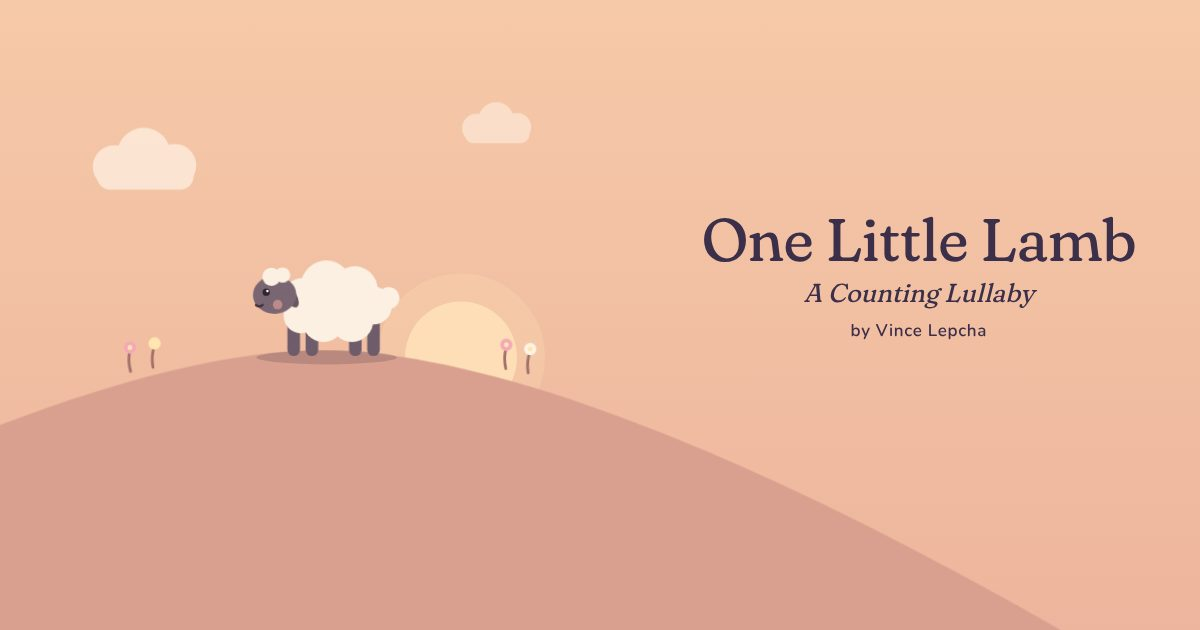
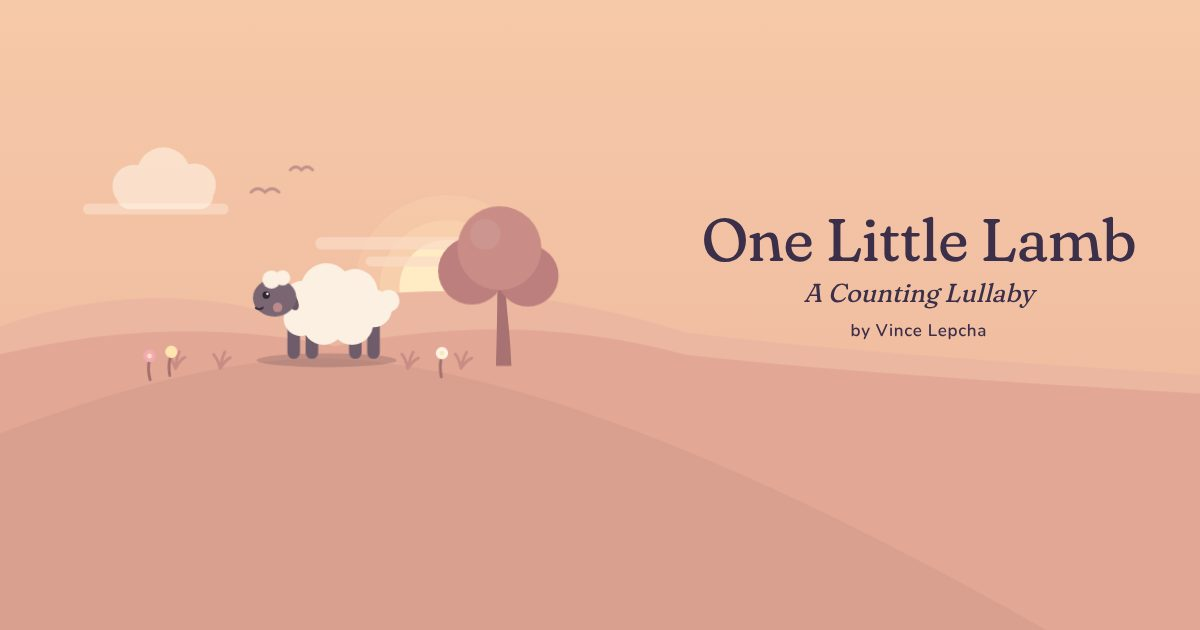
Refresh the share picture and offline copy for the new cover and page 1
Claude-Session: https://claude.ai/code/session_01EAKTqNLYaTqaS63z5KaeUe

diff --git a/sw.js b/sw.js
@@ -1,6 +1,6 @@
 /* One Little Lamb: offline reading after the first visit.
    Serves the saved copy straight away, and quietly refreshes it in the background. */
-var CACHE = "one-little-lamb-v5";
+var CACHE = "one-little-lamb-v6";
 var FILES = [
   "./",
   "index.html",

diff --git a/README.md b/README.md
@@ -15,6 +15,6 @@ Read it at **https://vincelepcha.github.io/one-little-lamb/**
 ## Making a change
 
 1. Edit the files and push to `main`. GitHub Pages republishes in a minute or two.
-2. Then raise the version in `sw.js` (`one-little-lamb-v5` → `one-little-lamb-v6`, and so on), so phones that saved the book pick up the new copy.
+2. Then raise the version in `sw.js` (`one-little-lamb-v6` → `one-little-lamb-v7`, and so on), so phones that saved the book pick up the new copy.
 
 © 2026 Vince Lepcha. All rights reserved.
